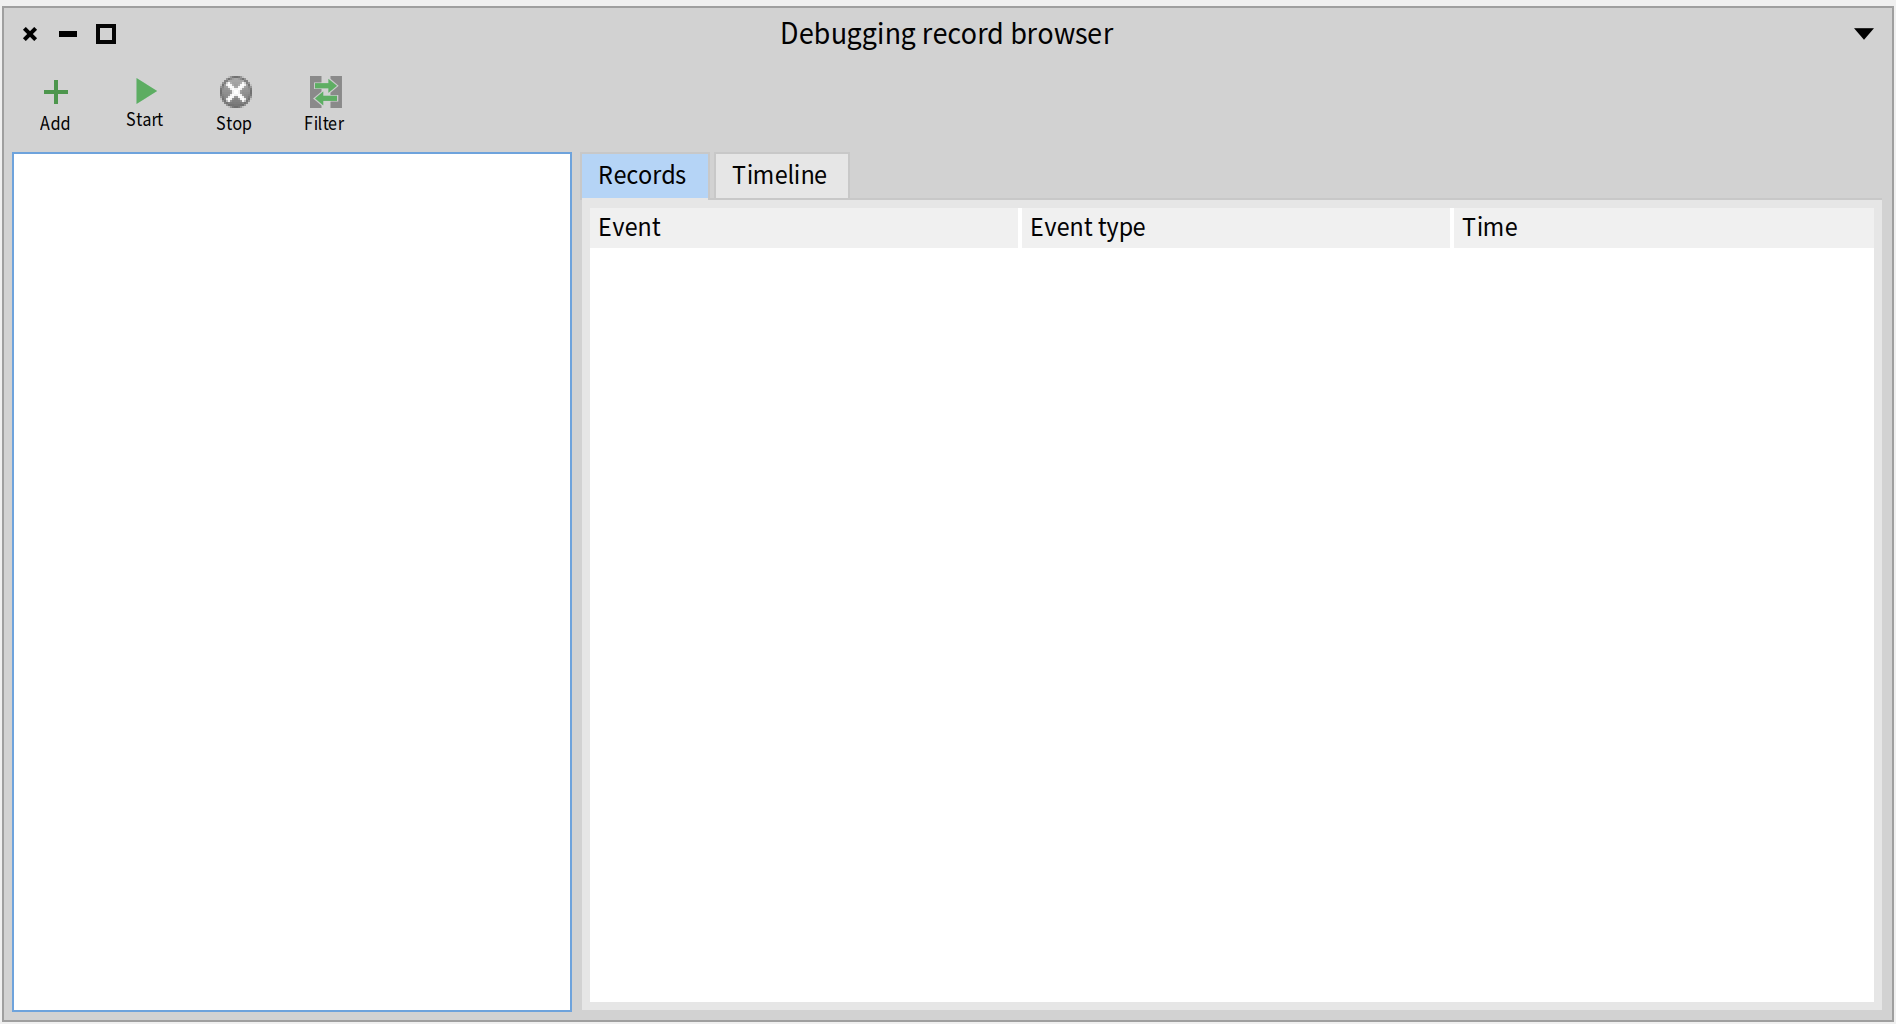
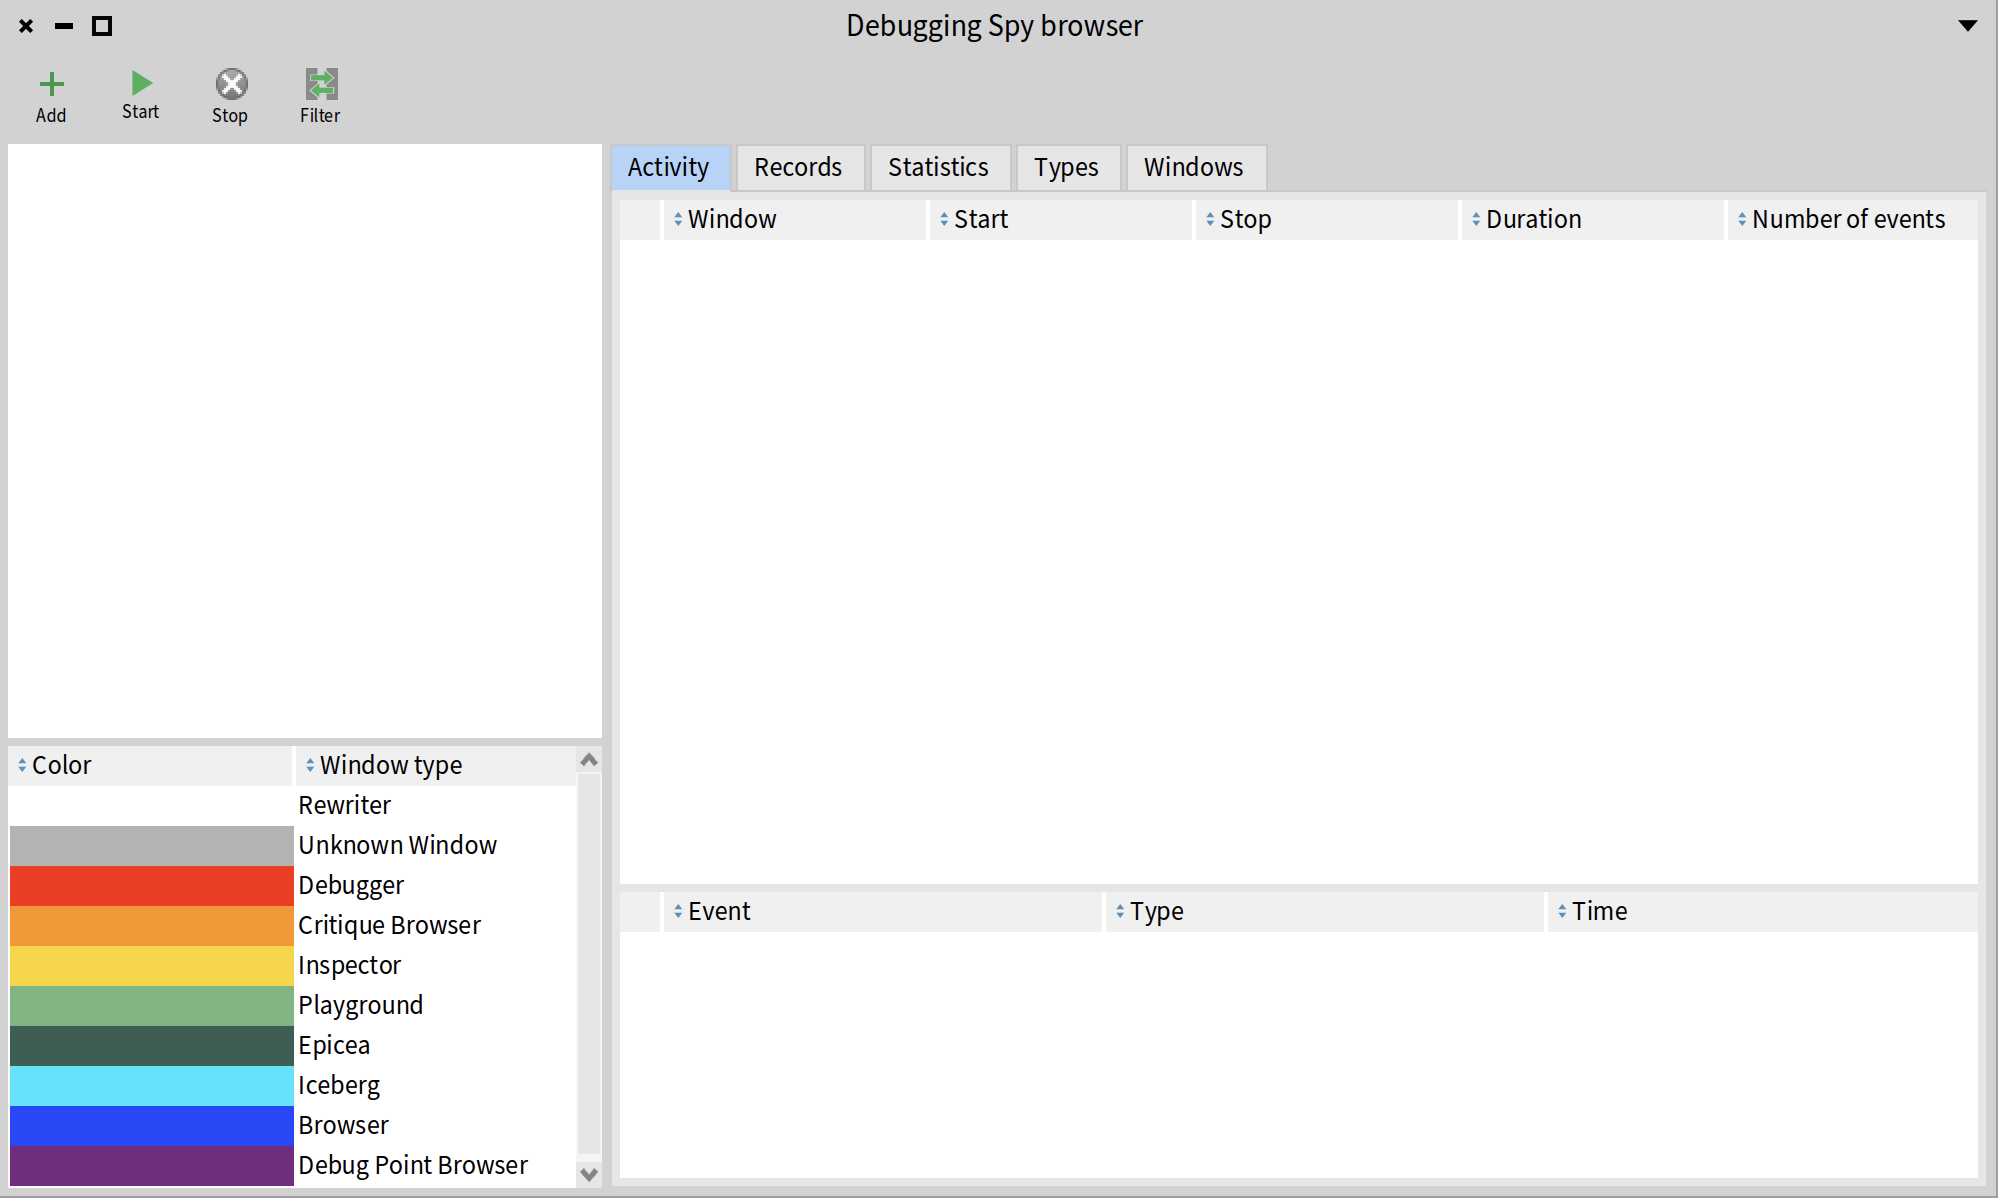
doc: update browser documentation

Changed region(s): [[0.0, 0.0, 1.0, 1.0]]

diff --git a/debugging-spy/user_guide.md b/debugging-spy/user_guide.md
@@ -9,11 +9,11 @@ You can import Debugging Spy in a Pharo image by running this code in a Playgrou
 ```Smalltalk
 Metacello new
     baseline: 'DebuggingSpy';
-    repository: 'github://Pharo-XP-Tools/DebuggingSpy:P12';
+    repository: 'github://Pharo-XP-Tools/DebuggingSpy:P14';
     load.
 ```
 
-Caution: the example above loads the P12 version and you should adapt the code according to the version desired. 
+Caution: the example above loads the P14 version and you should adapt the code according to the version desired. 
 
 ## User interface
 
@@ -33,7 +33,7 @@ The following actions can be done by using the interface:
 
 The instrumentation can be started and stopped by clicking on the associated buttons in the browser's toolbar.
 
-When the instrumentation is started, a timer window is instantiated in the bottom-right corner of the screen. This timer window displays the elapsed time since the start of the experiment, the current time and provides a button to stop the instrumentation.
+When the instrumentation is started, a timer window is instantiated in the bottom-right corner of the screen. This timer window displays the last event in the experiment, the elapsed time since the start of the experiment, the current time and provides a button to stop the instrumentation.
 
 ![Timer window](./graphics/timer_window.png)
 
@@ -47,7 +47,9 @@ The selected files will be added in the list and displayed on the right part of 
 
 ![Displayed records in user interface](./graphics/displaying_records.png)
 
-As seeing on the previous screenshot, the records displayed in the user interface's table are colored. Color indicates the window where the event happened. Every association color / type of window could be seen in the `DSRecordBrowserPresenter >> #getWindowColorFrom` method.
+As seeing on the previous screenshot, the elements displayed in the user interface's table are colored. Color indicates the window where the element happened. Any element in the top right table could be selected to show in the next table the events it contains.
+In the *Activity* tab, each element is a Window Jump (a list of events that happened in the same window before switching to another).
+In the *Windows* tab, each element is a Window, the events displayed in the records table would be the list of all the events that happened in the selected window.
 
 
 ### Visualizing a file's records and history
@@ -72,7 +74,7 @@ To make a record anonymous, use the **anonymize** method:
 aRecord anonymize
 ``` 
 
-This method will return a **deepCopy** of the specified record that will be filtered based on a filter that is defined in the record's class in the **anonymousFilter** method. This filter defines the slots that are going to be kept in the copy, every slot that is not defined in that filter will be set at nil.
+This method will return a copy of the specified record that will be filtered based on a filter that is defined in the record's class in the **anonymousFilter** method. This filter defines the slots that are going to be kept in the copy, every slot that is not defined in that filter will be set at nil.
 
 ## Advanced features
 
